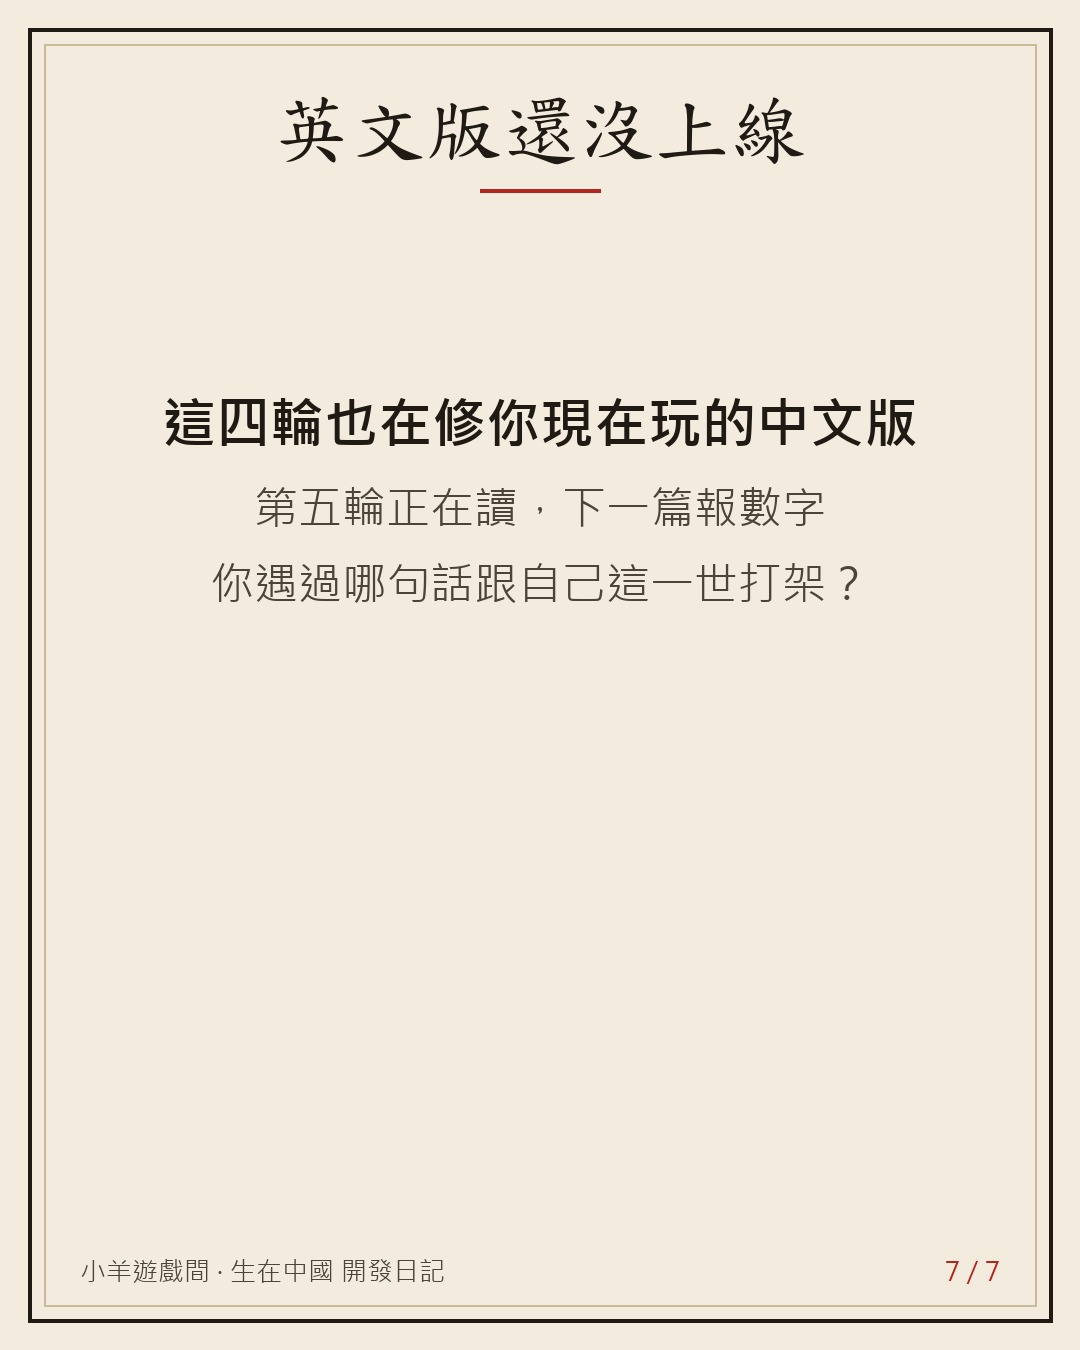
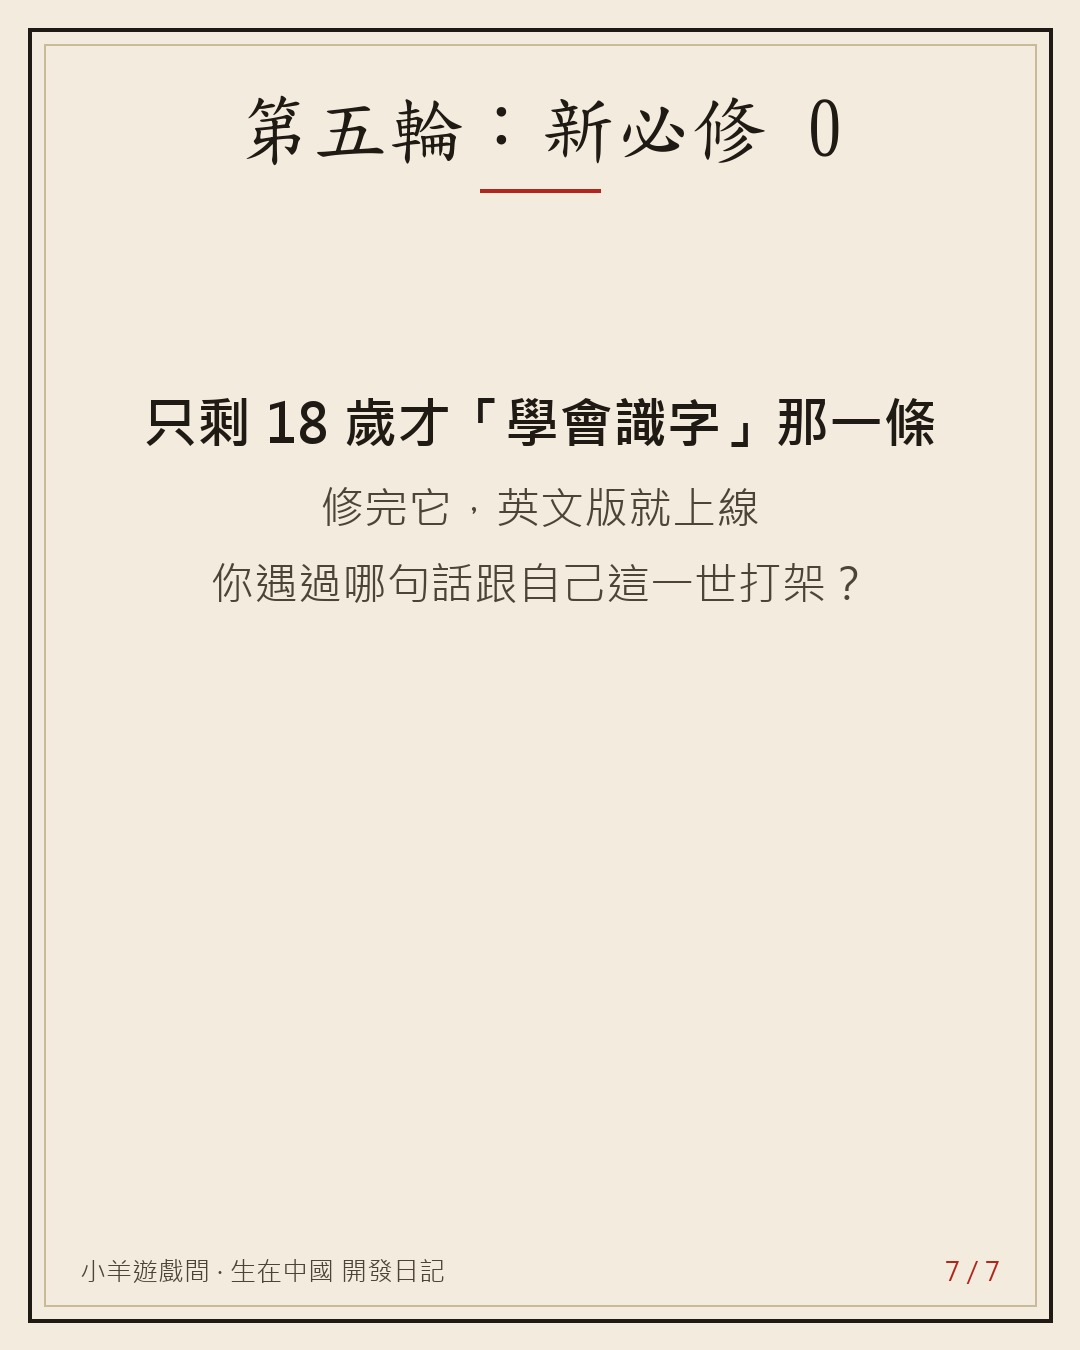
vault backup: 2026-10-25 02:39:32

Changed region(s): [[0.1222, 0.28, 0.8556, 0.4044], [0.2139, 0.0622, 0.7944, 0.1244]]

diff --git a/Projects/auto promotion/posts/4.md b/Projects/auto promotion/posts/4.md
@@ -7,19 +7,17 @@ status: 草稿
 created: 2026-10-25 17:50
 score:
 ---
-# 為了做英文版，我請 AI 把同樣 20 個人的一生讀了四遍
+# 為了做英文版，我請 AI 把同樣 20 個人的一生讀了五遍
 
 ## Threads
 ### 1
-做《生在中國》英文版，抓出最多錯的，竟然是中文版 orz
+做英文版，AI 審稿抓到 38 條必修的錯——其中 26 條，中文版早就錯在那裡了 orz
 
-我請一個 AI 審稿，把同樣 20 個人的一生，從出生讀到分享卡。
-修完再讀，讀了四遍。
+做法很笨：固定 20 個種子號碼，
+請一個 AI 審稿把這 20 個人的一生，從出生讀到分享卡。
+修完再讀，讀了五遍。
 
-第一輪：必修的錯 38 條。
-修完再讀，每輪新冒出來的：17、10、3。
-
-38 條裡，26 條是中文版本來就有的。
+每輪新冒出來的必修：38、17、10、3、0。
 ![[4/01.jpg]]
 ### 2
 先講預期中的。
@@ -33,7 +31,7 @@ score:
 第二輪回頭查，第一輪那批套版錯一條都沒再出現。
 ![[4/02.jpg]]
 ### 3
-沒想到的是另一類：中文也有的錯。
+沒想到的是另一類：中文也有的錯。第二輪又抓到一個典型的：
 
 遊戲的政權表是「一區一列」。
 結果一個 1631 年生在遼陽的人，畫面寫「崇禎四年」。
@@ -42,8 +40,8 @@ score:
 襄陽也一樣：1273 年就降元，同區的江陵 1276 才降，
 遊戲卻到 1275 還寫南宋的「德祐」。
 
-這種只錯在畫面的，就多一張城市政權表，不動引擎。
-之前的測試，沒有一條抓得到 orz
+這種錯，要把一個人從出生讀到死才看得出來。
+修法：多一張城市政權表，只改畫面，不動引擎。
 ![[4/04.jpg]]
 ### 4
 還有一類更好笑：句子跟這一世的人生打架。
@@ -61,7 +59,7 @@ score:
 你分享出去的人生，是靠「同一個種子號碼、同一版規則」重現的。
 如果我直接改史事，同一個連結點開，會變成另一個人。
 
-所以會改到人生的修正，一律開新版：兩天內開了 v14、v15、v16。
+所以凡是會改到人生的修正，就另開一版規則（兩天開了三版）。
 每開一版，都把 332 個舊人生重跑一遍，跟存檔逐字比——
 你分享出去的那一世，一個字都不能變。
 ![[4/06.jpg]]
@@ -69,59 +67,66 @@ score:
 我學到的一件事：
 翻譯，是最便宜的全文 code review。
 
-之前有測試、有自動檢查，但沒有誰把 20 個人的一生逐字讀完。
-換一種語言，就得逐字讀，錯就藏不住了。
+測試只查我想到要查的。
+換一種語言，每一句都得重寫一遍、逐字讀過，沒想到的錯也躲不掉。
 
-所以這四輪，其實也在修你現在玩的中文版。
-英文版還沒上線，規矩是沒有必修才上；第五輪正在讀，下一篇報數字。
+所以這幾輪，其實也在修你現在玩的中文版。
+也老實說：英文語感目前沒有真人母語者把關，這是已知的風險。
+### 7
+第五輪剛讀完：新必修 0。
+
+唯一還沒過的一條，就是上面那個 15 歲在私塾、18 歲才「學會識字」的人。
+修法已經定了：讀書的人，標記改寫「N 歲走上讀書這條路」。
+我給自己的規矩是沒有必修才上線，修完它，英文版就上，到時候再發一篇。
 
 你玩的時候，有沒有遇過一句話跟自己這一世打架？
-截圖丟留言，我拿去給第五輪對答案。
+截圖丟留言，我每一張都會看。
 ![[4/07.jpg]]
 ### 連結
 中文版先玩一次你的古代人生 👉 https://games.csiesheep.com/china_life/
 
 ## Instagram
-做《生在中國》英文版，抓出最多錯的，竟然是中文版 orz
+做英文版，AI 審稿抓到 38 條必修的錯——其中 26 條，中文版早就錯在那裡了 orz
 
-我請 AI 審稿把同樣 20 個人的一生讀了四遍。
-必修的錯：第一輪 38 條，之後每輪新抓到 17、10、3。
-38 條裡有 26 條，中文版本來就錯。
-1631 年生在遼陽的人，遊戲寫「崇禎四年」，可是遼陽 1621 年就歸了後金。
+同樣 20 個人的一生，從出生讀到分享卡，讀了五遍。
+每輪新抓到的必修：38、17、10、3、0。
 
-翻譯，是最便宜的全文 code review。
-這四輪也在修你現在玩的中文版。你遇過哪句話跟自己這一世打架？留言給我。
+翻譯，是最便宜的全文 code review。這幾輪也在修你現在玩的中文版。
+老實說：英文語感還沒有真人母語者把關，這是已知的風險。
+你遇過哪句話跟自己這一世打架？
 
-連結在主頁
+連結在主頁，玩完截圖給我。
 #生在中國 #獨立遊戲 #遊戲開發 #開發日記 #歷史
 卡片：![[4/01.jpg]] ![[4/02.jpg]] ![[4/03.jpg]] ![[4/04.jpg]] ![[4/05.jpg]] ![[4/06.jpg]] ![[4/07.jpg]]
 
 ## Facebook
-【生在中國 開發日記 #2】為了做英文版，我請 AI 把同樣 20 個人的一生讀了四遍
+【生在中國 開發日記 #2】為了做英文版，我請 AI 把同樣 20 個人的一生讀了五遍
 
-做《生在中國》英文版，抓出最多錯的，竟然是中文版 orz
+做英文版，AI 審稿抓到 38 條必修的錯——其中 26 條，中文版早就錯在那裡了 orz
 我請一個 AI 審稿（只讀成品、不看程式），把同樣 20 個種子號碼的一生，從出生讀到分享卡。修完再讀，讀完再修。
 
-📉 四輪的必修
-第一輪 38 條；修完再讀，第二輪新抓到 17、第三輪 10、第四輪 3（每輪也還有幾條舊的沒修乾淨）。
+📉 五輪的必修
+第一輪 38 條（其中 2 條後來判定是誤判，是抽文字造成的假象）；修完再讀，第二輪新抓到 17、第三輪 10、第四輪 3、第五輪 0（每輪也還有幾條舊的沒修乾淨）。
 
 🔤 預期中的：英文套版
 「land 1 plots」「Died of struck by evil」「a outcast」……修模板就好。第二輪回頭查，第一輪那批套版錯一條都沒再出現。
 
 🗺 沒想到的：中文版本來就有的錯
-第一輪 38 條裡有 26 條是中英共有的。第二輪又抓到同一類：政權表一區一列，所以 1631 年生在遼陽的人，畫面寫「崇禎四年」——可是遼陽 1621 年就被努爾哈赤拿下。襄陽 1273 年就降元，遊戲到 1275 還寫南宋。這種只錯在畫面的，就多一張城市政權表，不動引擎。
+第一輪 38 條裡有 26 條是中英共有的。第二輪又抓到同一類：政權表一區一列，所以 1631 年生在遼陽的人，畫面寫「崇禎四年」——可是遼陽 1621 年就被努爾哈赤拿下。襄陽 1273 年就降元，遊戲到 1275 還寫南宋。這種錯，要把一個人從出生讀到死才看得出來；修法是多一張城市政權表，只改畫面，不動引擎。
 
 🧍 跟自己的人生打架
 在營的兵跑去當鋪站櫃台；沒田的城裡人在照顧「自己的田」；15 歲就在私塾誦四書，18 歲的標記寫「學會識字」。每句單看都對，放進同一個人就錯。
 
 🔗 修史實，不改你的人生
-分享的人生靠「同一個種子號碼、同一版規則」重現。會改到人生的修正一律開新版（兩天內 v14、v15、v16），每開一版都把 332 個舊人生重跑一遍、跟存檔逐字比——你分享出去的那一世，一個字都不能變。
+分享的人生靠「同一個種子號碼、同一版規則」重現。會改到人生的修正一律另開一版規則（兩天開了三版：v14、v15、v16），每開一版都把 332 個舊人生重跑一遍、跟存檔逐字比——你分享出去的那一世，一個字都不能變。
 
 💡 學到的
-翻譯，是最便宜的全文 code review：換一種語言，就得逐字讀完，錯就藏不住。所以這四輪，其實也在修你現在玩的中文版。也誠實說：目前沒有真人母語者把關英文語感，這是已知的風險。
+翻譯，是最便宜的全文 code review：測試只查我想到要查的；換一種語言，每一句都得重寫、逐字讀過，沒想到的錯也躲不掉。所以這幾輪，其實也在修你現在玩的中文版。也誠實說：目前沒有真人母語者把關英文語感，這是已知的風險。
 
-英文版還沒上線，規矩是沒有必修才上。第五輪正在讀，下一篇報數字。
-你玩的時候，有沒有遇過一句話跟自己這一世打架？截圖丟留言，我拿去給第五輪對答案。有錯也請指正 :p
+🏁 第五輪：新必修 0
+唯一還沒過的，就是那個 15 歲在私塾、18 歲才「學會識字」的人。修法已定：讀書的人，標記改寫「N 歲走上讀書這條路」。規矩是沒有必修才上線，修完它英文版就上，到時候再發一篇。
+
+你玩的時候，有沒有遇過一句話跟自己這一世打架？截圖丟留言，我每一張都會看。有錯也請指正 :p
 
 中文版先玩一次你的古代人生 👉 https://games.csiesheep.com/china_life/
 相簿：同 Instagram 卡片
@@ -135,11 +140,13 @@ score:
 - docs/review/en_round4.md — 新必修 3；R4-M2 15 歲誦四書、18 歲標記「Learned to read」；R4-M3 22 歲起當兵、58 歲當鋪夥計；沒田的城裡人 kept your own fields
 - data/city_polity.csv — 遼陽 1621 努爾哈赤取遼陽、曾遷都遼陽；襄陽 1273 降元、江陵 1276
 - git log 2026-10-24/25 — engine v14、v15、v16；tests/golden v13/v14/v15_lives.json 332 世
-- docs/review/en_round5_lives/ — 第五輪原文已產生（未審）
+- docs/review/en_round5.md、design.md §98.13 — 第五輪（cv=v16）新必修 0，只剩 R4-M2（seed 825「18 歲識字」），裁決改寫「N 歲走上讀書這條路」（FE #192）
 
 ## 打磨紀錄
 | 回合 | 1 | 2 | 3 | 4 | 5 | 6 | 7 | 8 | 9 | 10 | 平均 | 主要修改 |
 |---|---|---|---|---|---|---|---|---|---|---|---|---|
 | 1 | 7 | 9 | 8 | 8 | 8 | 6 | 7 | 8 | 7 | 9 | 7.7 | 數字改成「第一輪 38、之後每輪新抓 17/10/3」；套版例子改成前兩輪；鉤子提到第一行；標題改成請 AI 讀；結尾改成徵求打架句、點出中文版也在修；第 5 則只講分享連結、去術語 |
+| 2 | 8 | 9 | 8 | 8 | 8 | 7 | 8 | 8 | 8 | 10 | 8.2 | 鉤子改成 38 條裡 26 條；刪掉沒來源的「測試抓不到」；遼陽標明第二輪；已知風險放回 Threads／IG；CTA 接回打架句；IG 減量；FB 註明 2 條誤判 |
+| 3 | 8 | 9 | 7 | 8 | 8 | 7 | 7 | 8 | 8 | 10 | 8.0 | 第五輪已讀完（新必修 0）改成收尾，標題改讀了五遍；第 6 則拆成教訓與結果兩則；鉤子第一行放反差；去版本術語；CTA 改回 |
 
 ## 發文紀錄

diff --git a/Projects/auto promotion/2026-10-25.md b/Projects/auto promotion/2026-10-25.md
@@ -48,3 +48,4 @@
 | 17:31 | promo-producer | 進度 | 開發日記 #4 草稿完成：〈為了做英文版，我把同樣 20 個人的一生讀了四遍〉（英文版四輪審稿 38→17→10→3），7 張卡已出，送 judge |  |
 | 17:32 | promo-post-cards | 警告 | Threads 登出（切到 csiesheep.games 的必要步驟）被權限檢查擋下，之後的瀏覽器動作也被擋；Instagram 已切到 csiesheep.games，沒能切回 gui.chang.shi，請手動切回 |  |
 | 17:32 | promo-post-cards | 失敗 | 沒發：Threads 在 gui.chang.shi，無法切到品牌帳號；37975277 仍是待發 |  |
+| 17:37 | promo-producer | 進度 | 開發日記 #4 打磨第 3 輪 8.0，補進第五輪結果（新必修 0），送第 4 輪 |  |
